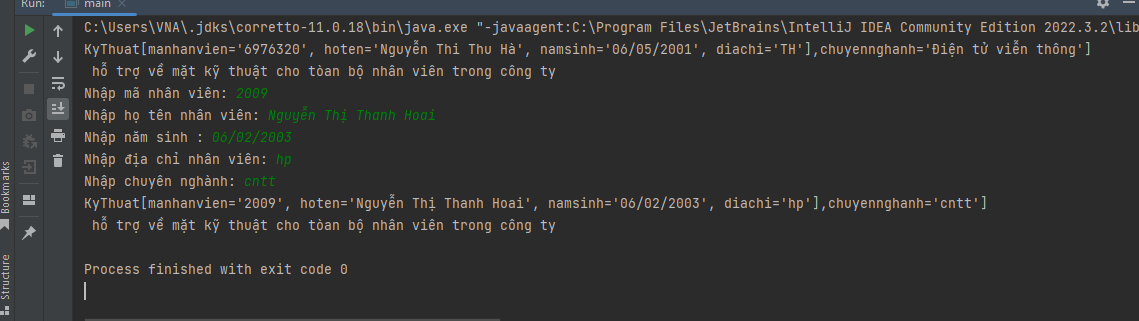
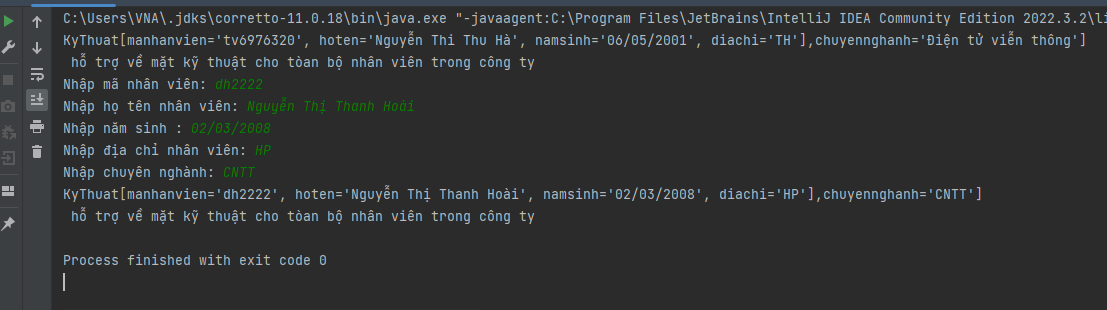
sửa lại code

diff --git a/src/main/java/org/example/cau2/main.java b/src/main/java/org/example/cau2/main.java
@@ -4,7 +4,7 @@ import java.util.Scanner;
 
 public class main {
     public static void main(String[] args) {
-        Nhanvien nv = new KyThuat("6976320","Nguyễn Thi Thu Hà", "06/05/2001","TH", "Điện tử viễn thông");
+        Nhanvien nv = new KyThuat("tv6976320","Nguyễn Thi Thu Hà", "06/05/2001","TH", "Điện tử viễn thông");
         System.out.println(nv);
         System.out.println(nv.moTaCongViec());
 
